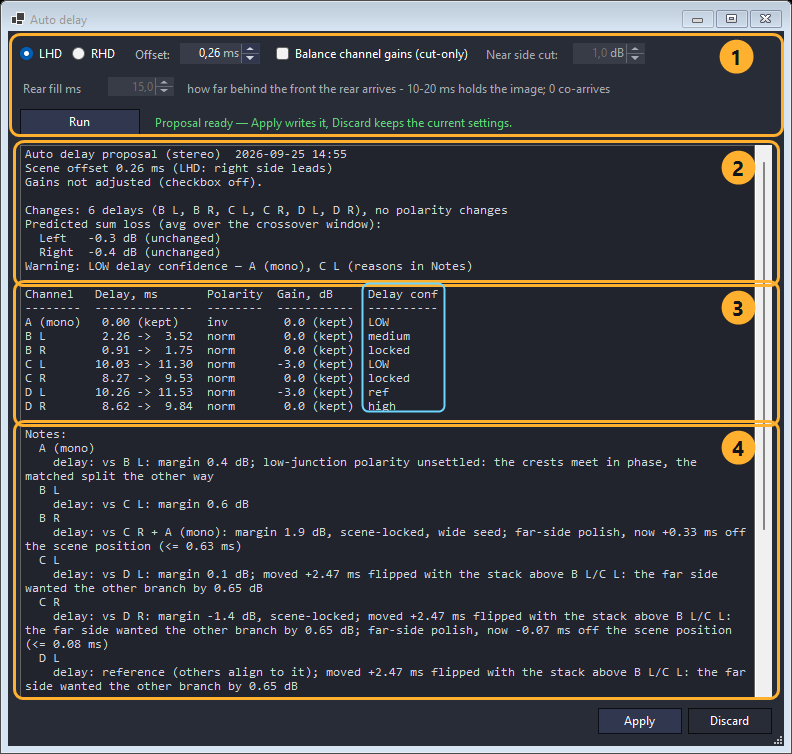
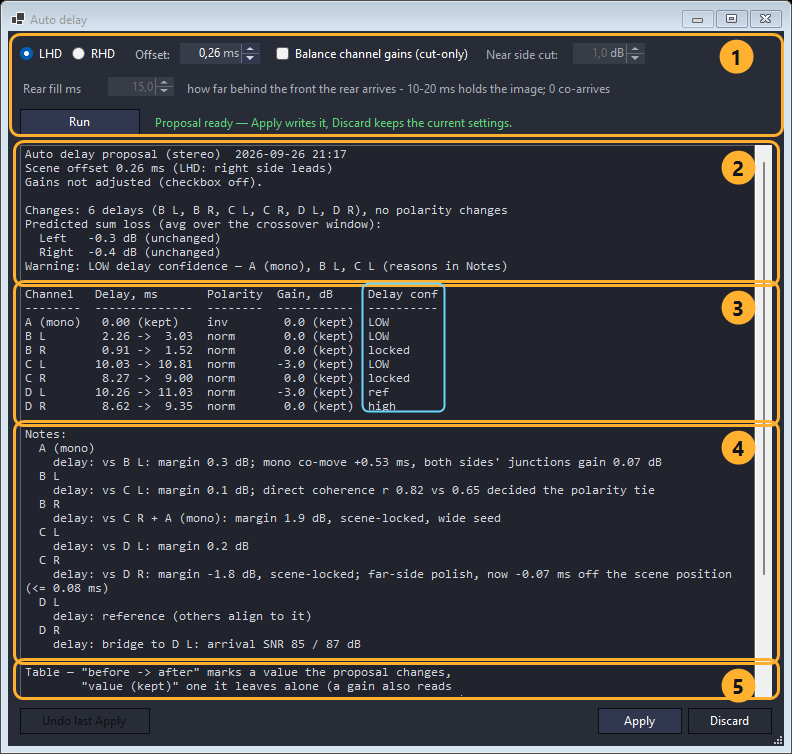
Update images

diff --git a/MANUAL.md b/MANUAL.md
@@ -1327,8 +1327,7 @@ for the rows it is not sure about, and it says which those are.
 4. **The notes** — how each decision was reached: which neighbour a channel was timed
    against, by what margin, whether the scene offset or a wide seed had a say. **Every
    `LOW` in the confidence column has its reasoning here, under that channel's name.**
-
-Below the notes a key says what `->` and `(kept)` mean; scroll the report down to it.
+5. **The key** — what `->` and `(kept)` mean; scroll the report down to read it whole.
 
 Low confidence does not mean wrong; it means the data did not strongly favour one
 solution, so those rows are worth reading the notes for and checking by ear. Press
